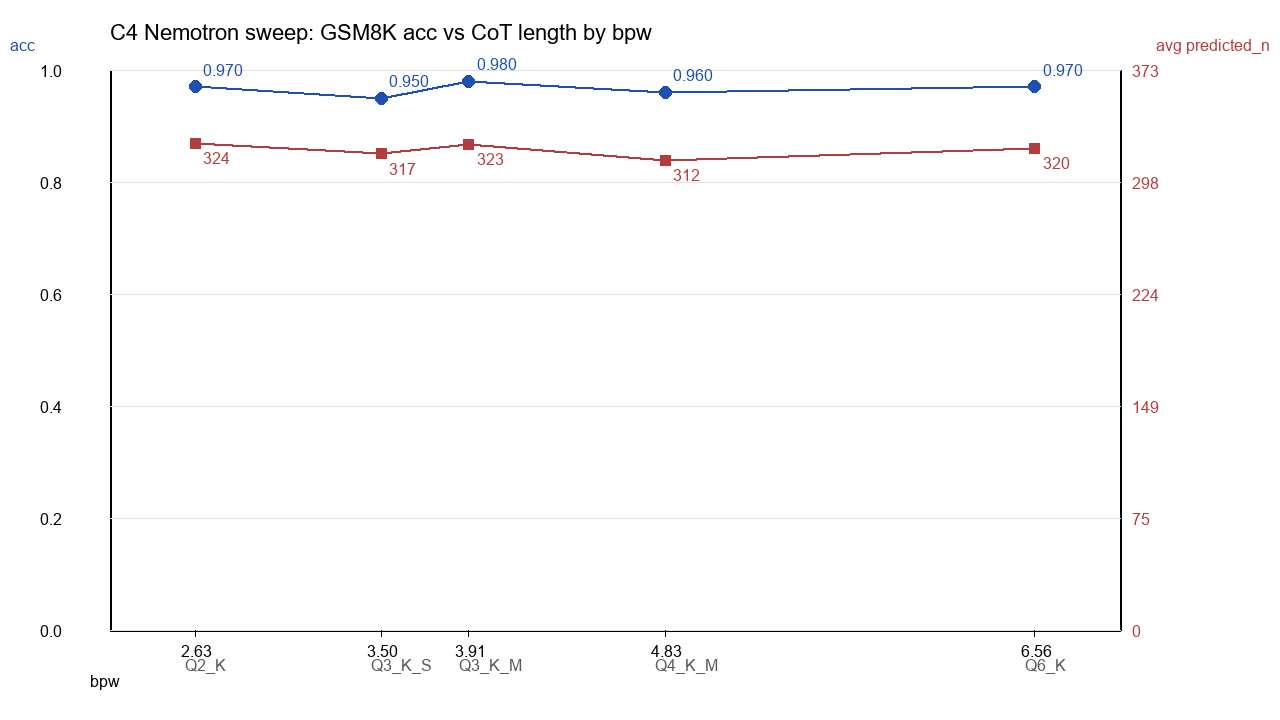
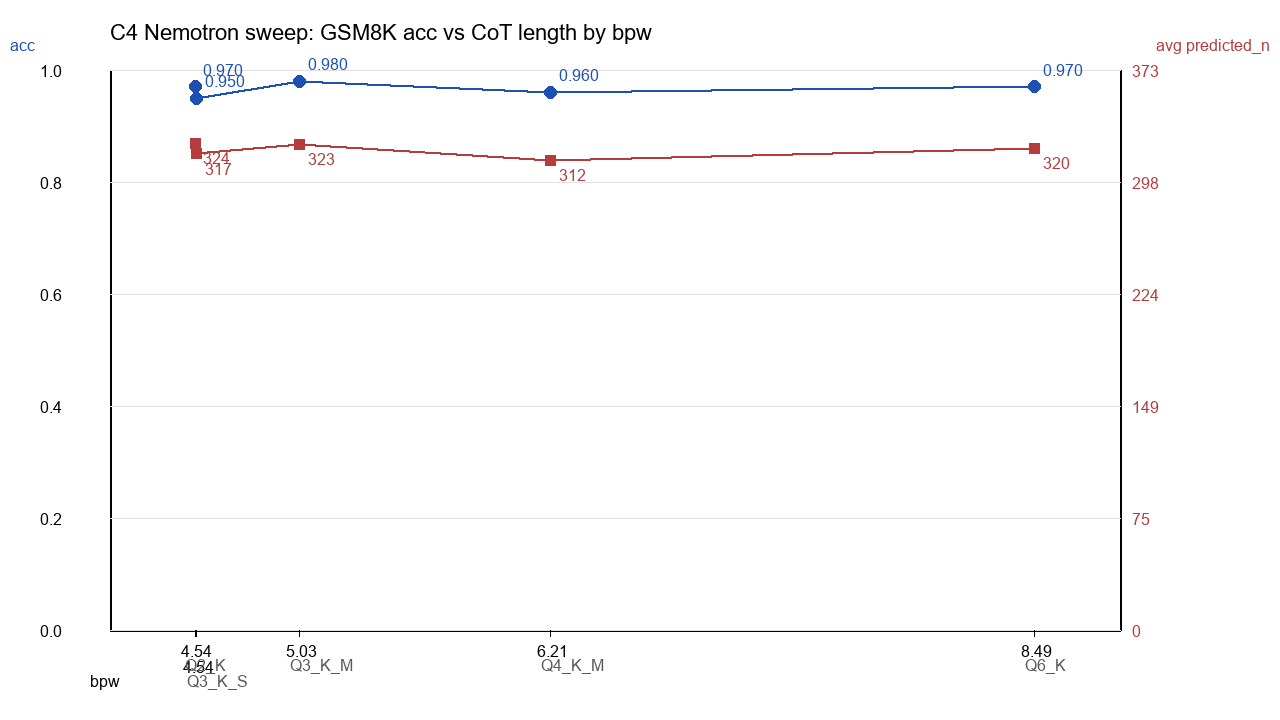
Fix E-N1 ledger: measured bpw, discordant counts; add r_kappa.py
* code/tcq_exp/theory/r_kappa.py: reference implementation of the codebook
  mismatch ratio r(kappa) quoted in Section 5.2 (mid-tread and max-tread
  grids, density-weighted Lloyd-Max fixed point). Its self-test covers the
  seven values the paper uses -- r=48.24/2.337/1.521 at kappa=0.05/0.20/0.30,
  r(0.185)=2.620, max-tread r(0.20)=4.56, kappa(r=5)=0.130, kappa(r=2)=0.226
  -- and `python r_kappa.py` exits 0.

* code/tcq_exp/c4_nemotron_sweep.py: the QUANTS table carried nominal
  llama.cpp tier values (2.63/3.50/3.91/4.83/6.56 bpw) rather than measured
  rates, so every downstream file inherited a bit-width axis roughly half
  the true one. Replaced by a measured table; a consistency check now raises
  at import if size_gib and bpw disagree by more than 0.002 (which the old
  values did by ~2x), so this cannot silently recur. CSV writes are pinned
  to LF.

* results/tcq_exp/results/c4_summary.json, c4_cot_curve.csv, c4_cot_curve.png:
  bpw recomputed from artifact bytes to 4.537/4.544/5.029/6.211/8.489
  (results/nemotron_ext/results/n1_summary.json). size_gib * 2^30 * 8 /
  n_params already implied these to within 0.0013, i.e. the two-decimal
  rounding of size_gib. acc, avg_pn, behaviour and verdict are unchanged
  tier by tier; the verdict's rate span 2.63-6.56 becomes 4.54-8.49, and a
  `revision` block records the previous values. The curve is re-plotted from
  the same summary; the two lowest tiers now sit 0.007 bpw apart, so their
[…]

diff --git a/code/tcq_exp/theory/r_kappa.py b/code/tcq_exp/theory/r_kappa.py
@@ -1,0 +1,157 @@
+#!/usr/bin/env python
+"""Codebook mismatch ratio r(kappa) for a clipped symmetric Laplace source.
+
+Reproduces Section "Codebook mismatch: a heavy-tail distortion ratio" of the
+paper.  Every 128-weight group is modelled as a symmetric Laplace with scale
+b_w clipped to [-a, a]; four-level symmetric quantization of two grid
+conventions is compared against the Lloyd-Max codebook of the same size.
+
+    r(kappa) = D_unif / D_LM,        kappa = b_w / a
+
+Grid conventions
+----------------
+mid_tread  reconstruction points +-a/4, +-3a/4   (Eq. dunif; Voronoi
+           boundaries at 0 and +-a/2)  -- the paper's analytical reference
+max_tread  reconstruction points +-a/3, +-a     (the grid implied by the TCQ
+           scale convention d_b = max|W| / 1.5)
+
+D_LM is obtained by fixed-point (Lloyd-Max) iteration on a uniform grid using
+density-weighted quadrature, starting from the mid-tread points.
+
+Reference values quoted in the paper (mid_tread):
+    r(0.05) = 48.2    r(0.20) = 2.34    r(0.30) = 1.52
+    r in [2, 5]  <=>  kappa in [0.13, 0.23]
+    r(kappa = 0.185) = 2.62   (the E21 unweighted caliber)
+and for grid convention max_tread:
+    r(0.20) = 4.6
+
+Usage
+-----
+    python r_kappa.py            # table + self-test (exit 1 on assertion)
+    python r_kappa.py --csv      # machine-readable output
+
+No dependencies beyond numpy.
+"""
+from __future__ import annotations
+
+import argparse
+import sys
+
+import numpy as np
+
+N_GRID = 200_001          # quadrature points on [-a, a]
+N_LLOYD = 200             # Lloyd-Max iterations (converges in < 40)
+TOL = 1e-12
+
+
+def laplace_pdf(kappa: float, a: float = 1.0, n: int = N_GRID):
+    """Symmetric Laplace on [-a, a], normalised over the clipped support."""
+    b = kappa * a
+    w = np.linspace(-a, a, n)
+    Z = 2.0 * b * (1.0 - np.exp(-a / b))       # integral of exp(-|w|/b)
+    return w, np.exp(-np.abs(w) / b) / Z
+
+
+def distortion(centroids, kappa: float, a: float = 1.0) -> float:
+    """E[(W - Q(W))^2] for nearest-neighbour (Voronoi) assignment."""
+    w, p = laplace_pdf(kappa, a)
+    c = np.asarray(centroids, dtype=float)
+    idx = np.abs(w[:, None] - c[None, :]).argmin(axis=1)
+    return float(np.trapezoid(p * (w - c[idx]) ** 2, w))
+
+
+def lloyd_max(kappa: float, init, a: float = 1.0, iters: int = N_LLOYD):
+    """Lloyd-Max fixed point: centroids = conditional means of their cells."""
+    w, p = laplace_pdf(kappa, a)
+    c = np.asarray(init, dtype=float).copy()
+    for _ in range(iters):
+        idx = np.abs(w[:, None] - c[None, :]).argmin(axis=1)
+        new = np.empty_like(c)
+        for j in range(c.size):
+            m = idx == j
+            # an empty cell keeps its previous centroid (cannot happen here)
+            new[j] = (np.trapezoid(p[m] * w[m], w[m]) / np.trapezoid(p[m], w[m])
+                      if m.any() else c[j])
+        if np.allclose(new, c, atol=TOL):
+            return new
+        c = new
+    raise RuntimeError(f"Lloyd-Max did not converge at kappa={kappa}")
+
+
+def uniform_points(kappa: float, convention: str, a: float = 1.0):
+    if convention == "mid_tread":
+        return np.array([-3 * a / 4, -a / 4, a / 4, 3 * a / 4])
+    if convention == "max_tread":
+        return np.array([-a, -a / 3, a / 3, a])
+    raise ValueError(convention)
+
+
+def ratio(kappa: float, convention: str = "mid_tread", a: float = 1.0) -> float:
+    """r = D_unif / D_LM at tail parameter kappa."""
+    d_unif = distortion(uniform_points(kappa, convention, a), kappa, a)
+    c_lm = lloyd_max(kappa, uniform_points(kappa, "mid_tread", a), a)
+    return d_unif / distortion(c_lm, kappa, a)
+
+
+def kappa_for_ratio(target: float, lo: float = 0.02, hi: float = 0.35,
+                     tol: float = 1e-6) -> float:
+    """Bisection on the (monotone decreasing) r(kappa) curve."""
+    f_lo = ratio(lo) - target
+    if f_lo < 0:
+        raise ValueError(f"no crossing below kappa={hi} for r={target}")
+    for _ in range(100):
+        mid = 0.5 * (lo + hi)
+        if ratio(mid) - target > 0:
+            lo = mid
+        else:
+            hi = mid
+        if hi - lo < tol:
+            break
+    return 0.5 * (lo + hi)
+
+
+def main(argv=None) -> int:
+    ap = argparse.ArgumentParser(description=__doc__.splitlines()[0])
+    ap.add_argument("--csv", action="store_true", help="CSV instead of a table")
+    args = ap.parse_args(argv)
+
+    grid = [0.05, 0.10, 0.13, 0.15, 0.185, 0.20, 0.23, 0.25, 0.30]
+    rows = []
+    for k in grid:
+        rows.append((k, ratio(k, "mid_tread"), ratio(k, "max_tread")))
+
+    if args.csv:
+        print("kappa,r_mid_tread,r_max_tread")
+        for k, r_mid, r_max in rows:
+            print(f"{k:.3f},{r_mid:.4f},{r_max:.4f}")
+    else:
+        print(f"{'kappa':>6}  {'r(mid-tread)':>12}  {'r(max-tread)':>12}")
+        for k, r_mid, r_max in rows:
+            print(f"{k:6.3f}  {r_mid:12.3f}  {r_max:12.3f}")
+        lo = kappa_for_ratio(5.0)
+        hi = kappa_for_ratio(2.0)
+        print(f"\nr in [2, 5]  <=>  kappa in [{lo:.3f}, {hi:.3f}]")
+        print(f"r(kappa=0.185) = {ratio(0.185):.4f}   (E21 unweighted 2.62)")
+        print(f"max-tread r(kappa=0.20) = {ratio(0.20, 'max_tread'):.4f}")
+
+    # ---- unit tests: the values quoted in the paper ----------------------
+    checks = [
+        ("r(0.05) = 48.2", ratio(0.05), 48.2, 0.3),
+        ("r(0.20) = 2.34", ratio(0.20), 2.34, 0.02),
+        ("r(0.30) = 1.52", ratio(0.30), 1.52, 0.02),
+        ("r(0.185) = 2.62", ratio(0.185), 2.62, 0.02),
+        ("max-tread r(0.20) = 4.6", ratio(0.20, "max_tread"), 4.6, 0.1),
+        ("kappa(r=5) = 0.13", kappa_for_ratio(5.0), 0.13, 0.005),
+        ("kappa(r=2) = 0.23", kappa_for_ratio(2.0), 0.23, 0.01),
+    ]
+    failed = 0
+    for label, got, want, tol in checks:
+        ok = abs(got - want) <= tol
+        failed += not ok
+        if not args.csv:
+            print(f"[{'ok' if ok else 'FAIL'}] {label:<26} got {got:.4f}")
+    return 1 if failed else 0
+
+
+if __name__ == "__main__":
+    sys.exit(main())

diff --git a/code/tcq_exp/c4_nemotron_sweep.py b/code/tcq_exp/c4_nemotron_sweep.py
@@ -39,19 +39,32 @@ CURVE_CSV = os.path.join(RES, "c4_cot_curve.csv")
 CALIB_CAND = os.path.join(RES, "c4_calib_candidates.jsonl")
 CALIB_MANUAL = os.path.join(RES, "c4_calib_manual.json")
 
-# 档位按 bpw 升序; size_gib 为任务书给出的目标大小, bpw 为 llama.cpp 标称值
+# 档位按 bpw 升序。size_gib 为制品大小, bpw 为实测码率(制品字节 x 8 / 参数量),
+# 不是档名标称值: 早期版本这里写的是 2.63/3.50/3.91/4.83/6.56 一组标称值,
+# 与 size_gib 相差近一倍, 导致 summary / 曲线 / 台账的位宽轴整体错位。
+N_PARAMS = 31577940288  # Nemotron-Cascade-2-30B-A3B, 同 results/nemotron_ext/results/n1_summary.json
+BPW_MEASURED = {"Q2_K": 4.537, "Q3_K_S": 4.544, "Q3_K_M": 5.029,
+                "Q4_K_M": 6.211, "Q6_K": 8.489}
 QUANTS = [
     {"tag": "Q2_K", "file": "Nemotron-Cascade-2-30B-A3B.i1-Q2_K.gguf",
-     "size_gib": 16.68, "bpw": 2.63, "port": 18301},
+     "size_gib": 16.68, "bpw": BPW_MEASURED["Q2_K"], "port": 18301},
     {"tag": "Q3_K_S", "file": "Nemotron-Cascade-2-30B-A3B.i1-Q3_K_S.gguf",
-     "size_gib": 16.70, "bpw": 3.50, "port": 18302},
+     "size_gib": 16.70, "bpw": BPW_MEASURED["Q3_K_S"], "port": 18302},
     {"tag": "Q3_K_M", "file": "Nemotron-Cascade-2-30B-A3B.i1-Q3_K_M.gguf",
-     "size_gib": 18.49, "bpw": 3.91, "port": 18303},
+     "size_gib": 18.49, "bpw": BPW_MEASURED["Q3_K_M"], "port": 18303},
     {"tag": "Q4_K_M", "file": "Nemotron-Cascade-2-30B-A3B.i1-Q4_K_M.gguf",
-     "size_gib": 22.83, "bpw": 4.83, "port": 18304},
+     "size_gib": 22.83, "bpw": BPW_MEASURED["Q4_K_M"], "port": 18304},
     {"tag": "Q6_K", "file": "Nemotron-Cascade-2-30B-A3B.i1-Q6_K.gguf",
-     "size_gib": 31.21, "bpw": 6.56, "port": 18305},
+     "size_gib": 31.21, "bpw": BPW_MEASURED["Q6_K"], "port": 18305},
 ]
+# 自检: 实测码率必须与制品大小自洽 (size_gib 只保留两位小数, 容差 0.002),
+# 任何一侧被改错都在开跑前报错, 不会再把错位的位宽轴写进结果文件。
+for _q in QUANTS:
+    _derived = _q["size_gib"] * 2 ** 30 * 8 / N_PARAMS
+    if abs(_derived - _q["bpw"]) >= 0.002:
+        raise ValueError("%s: size_gib=%.2f 推出 %.3f bpw, 与实测 %.3f 不符"
+                         % (_q["tag"], _q["size_gib"], _derived, _q["bpw"]))
+del _q, _derived
 HIGH_ANCHORS = {"Q4_K_M", "Q6_K"}
 N_PREDICT = 1024
 STOPS = ["\n\nQuestion:", "\n\nQ:"]
@@ -486,9 +499,15 @@ def draw_chart(points):
         return B - (B - T) * a
     def py_pn(p):
         return B - (B - T) * (p / pmax)
-    for b in bps:
+    # 实测码率下 Q2_K 与 Q3_K_S 只差 0.007 bpw (4.537 / 4.544), 刻度与档名会叠在一起,
+    # 相邻刻度改为上下错行; 点本身仍按真实 bpw 落位, 不人为拉开。
+    sb = sorted(bps)
+    stag = {}
+    for i, b in enumerate(sb):
+        stag[b] = 0 if (i == 0 or px(b) - px(sb[i - 1]) > 34) else 16
+    for b in sb:
         d.line([(px(b), B), (px(b), B + 6)], fill="black", width=1)
-        d.text((px(b) - 14, B + 12), f"{b:.2f}", fill="black", font=f_l)
+        d.text((px(b) - 14, B + 12 + stag[b]), f"{b:.2f}", fill="black", font=f_l)
     d.text((L - 20, B + 42), "bpw", fill="black", font=f_l)
     d.text((10, T - 34), "acc", fill=(30, 80, 180), font=f_l)
     rt = "avg predicted_n"
@@ -504,9 +523,10 @@ def draw_chart(points):
         x, y = px(p["bpw"]), py_pn(p["avg_pn"])
         d.rectangle([x - 5, y - 5, x + 5, y + 5], fill=(180, 60, 60))
         d.text((x + 8, y + 6), f"{p['avg_pn']:.0f}", fill=(180, 60, 60), font=f_l)
-        d.text((x - 10, B + 26), p["tag"], fill=(90, 90, 90), font=f_l)
+        d.text((x - 10, B + 26 + stag.get(p["bpw"], 0)), p["tag"],
+               fill=(90, 90, 90), font=f_l)
     img.save(CURVE_PNG)
-    with open(CURVE_CSV, "w", encoding="utf-8") as f:
+    with open(CURVE_CSV, "w", encoding="utf-8", newline="\n") as f:
         f.write("tag,bpw,acc,avg_predicted_n,median_predicted_n\n")
         for p in seq:
             f.write(f"{p['tag']},{p['bpw']},{p['acc']:.4f},{p['avg_pn']:.2f},"
@@ -642,7 +662,7 @@ def cmd_summarize(args):
             draw_chart(points)
             out["curve"] = {"png": CURVE_PNG, "csv": CURVE_CSV}
         except Exception as e:  # noqa: BLE001  matplotlib/PIL 缺失时退化为 CSV
-            with open(CURVE_CSV, "w", encoding="utf-8") as f:
+            with open(CURVE_CSV, "w", encoding="utf-8", newline="\n") as f:
                 f.write("tag,bpw,acc,avg_predicted_n,median_predicted_n\n")
                 for p in sorted(points, key=lambda x: x["bpw"]):
                     f.write(f"{p['tag']},{p['bpw']},{p['acc']:.4f},{p['avg_pn']:.2f},"

diff --git a/DATA_TABLE.md b/DATA_TABLE.md
@@ -98,7 +98,7 @@
 | E-R1 | 增补 | reverse 名单对照：usage 升序前 10 层 IQ4_XS + 专家 IQ2_XXS + 其余 Q5_K，与 G1 / G2 / G_rand 单变量对照（GSM8K200 + HE164，协议同 C1.2） | 已完成 | 11.652 GiB（与 G_rand 同模板同体积，24.1 min）；GSM8K 0.960、HE 0.909（26.0 min）；vs G2 +2.0 / +0.6 pt（p=0.219 / 1.000）、vs G_rand +0.5 / +3.0 pt（p=1.000 / 0.359）、vs G1 +1.5 / −2.4 pt（p=0.508 / 0.388），CI 全部含 0；判定"双任务均无差异"，名单维度（层粒度）关闭 | reverse/reverse_types.py, reverse/run_tasks.py, reverse/pair_eval.py | results/reverse/results/c2_reverse_summary.json, results/reverse/results/c2_reverse_pairwise.json, results/reverse/results/c1_reverse_meta.json |
 | E-R2 | 增补 | Qwen3.6-35B-A3B 路由一致性诊断：BF16 F16 / TCQ-nl_global / iq2xxs 三配置，eval64 全 192 条 11,202 token，逐 token × 40 层 × 256 专家概率；llama.cpp 新增 `LLAMA_MOE_DUMP` 导出（`ffn_moe_probs` 标记 output 防缓冲区复用） | 已完成 | 主臂 TCQ vs BF16：top-8 精确匹配 0.1868 [0.1801, 0.1940]、Jaccard 0.7130、JS 0.0108 bit [0.0100, 0.0117]；翻转（≥20/40 层）9653/9666 token；iq2xxs：0.2848 / 0.7774 / 0.0057；聚合 usage hard TV 0.0629、top-64 重叠 0.9117（最低 0.8438）；严重度高低 ΔNLL 差 +0.169 [0.107, 0.231]；判定 P3（路由不可忽略），附"分布移动小、聚合 usage 稳定"两条缓和事实 | route_consistency/r2_run.py, route_consistency/r2_analyze.py | results/route_consistency/results/r2_summary.json, results/route_consistency/results/r2_by_layer.csv |
 | E-R2b | 增补 | Nemotron-Cascade-2-30B-A3B 路由臂：Q3_K_M vs Q6_K（8 条/域 × 3 域 = 24 条，1621 token，23 层） | 已完成 | 精确匹配 0.2621 [0.2428, 0.2834]、Jaccard 0.7839、JS 0.0865 bit [0.0724, 0.1012]、ΔNLL −0.0368；翻转多数 1398/1621、稳定组 0；参照为 Q6_K（非 BF16），一致率按下界解读；判定 P3_routing_not_negligible | nemotron_ext/route/nr_run.py, nemotron_ext/route/nr_analyze.py | results/nemotron_ext/route/results/nr_summary.json |
-| E-N1 | 增补 | Nemotron 四档 CoT/acc–位宽曲线：Q2_K 2.63 / Q3_K_S 3.50 / Q3_K_M 3.91 / Q4_K_M 4.83 bpw + Q6_K 6.56 锚，GSM8K 前 100；Qwen 六档（E17 前 100）并置（复用 C4/E17 数据，未重跑推理） | 已完成 | acc 0.970 / 0.950 / 0.980 / 0.960 / 0.970；相邻档最大 Δacc −2 pp、CoT 比 0.966–1.025，无相邻档满足断崖判据；McNemar Q2_K vs Q3_K_S b=4 / c=2 / p=0.625；四档极差 3.0 pp；判定 B_gradual（四档渐变），M6 降级为"该族低比特敏感度高于 GDN" | nemotron_ext/n1_analyze.py | results/nemotron_ext/results/n1_summary.json, results/nemotron_ext/results/n1_curves.csv, results/nemotron_ext/results/n1_curves.svg |
+| E-N1 | 增补 | Nemotron 四档 CoT/acc–位宽曲线：Q2_K 4.537 / Q3_K_S 4.544 / Q3_K_M 5.029 / Q4_K_M 6.211 bpw + Q6_K 8.489 锚，GSM8K 前 100；Qwen 六档（E17 前 100）并置（复用 C4/E17 数据，未重跑推理） | 已完成 | acc 0.970 / 0.950 / 0.980 / 0.960 / 0.970；相邻档最大 Δacc −2 pp、CoT 比 0.966–1.025，无相邻档满足断崖判据；McNemar Q2_K vs Q3_K_S b=3 / c=1 / p=0.625；四档极差 3.0 pp；判定 B_gradual（四档渐变），M6 降级为"该族低比特敏感度高于 GDN" | nemotron_ext/n1_analyze.py | results/nemotron_ext/results/n1_summary.json, results/nemotron_ext/results/n1_curves.csv, results/nemotron_ext/results/n1_curves.svg |
 | E-GPTQ | 增补 | 补偿式量化基线：GPTQ 3-bit / group 128 / damp 0.01，128 条 C4 校准，GSM8K200 + HE164（协议同 E17） | 未执行（工具链阻塞） | 无质量数据；PREREG 与脚本已就绪（`quantize_gptq.py` / `eval_gptq.py`）；阻塞证据：gptqmodel 7.11 依赖 pypcre（PCRE2 源码 clone 失败）且要求 torch≥2.13（本机 2.4.1+cu124），`--no-deps` 后缺 `pcre`，auto-gptq 架构表不含 Qwen3_5Moe，llm-compressor 镜像缺失；换 Linux 环境可直接执行 | gptq_baseline/quantize_gptq.py, gptq_baseline/eval_gptq.py | — |
 | E-G4 质量对比 | 未执行 | Clover dLLM A/B 的 GSM8K200 / MATH-500 100 / HumanEval 164 | 未执行（链路阻塞） | 无数据 | tcq_exp/e_g4_eval.py | — |
 | D2 / D2b / D3 / D4 / D5 | 未执行 | 见第六节 | 搁置 | 本轮不执行 | — | — |

diff --git a/EXPERIMENT_INVENTORY.md b/EXPERIMENT_INVENTORY.md
@@ -1,6 +1,6 @@
 # 实验总台账
 
-生成时间：2026-11-11 19:00；最后更新：2026-11-18（Asia/Shanghai）
+生成时间：2026-11-11 19:00；最后更新：2026-11-19（Asia/Shanghai）
 范围：阶段 0/1/2 历史实验（E1–E21、B、D、A、C 路线）+ 当前主线（E-F、E-G、E-H）+ E-A1 轨迹级（A1a/A1a-ctrl/A1b/A1c/A1d/A1f/A1g/A1h/A1i）+ 2026-11-18 增补（E-R1/E-R2/E-R2b/E-N1/E-GPTQ）
 状态定义：已完成（含"否证"结果）/ 部分完成（计划内的子项缺失）/ 未执行（阻塞或计划未启动）
 说明：只记录实验内容、状态、结果，不做分析；数字取自 results/ 下对应结果文件。E-G5/G6/G7 的配对检验为 McNemar 精确 + 1000 次序列 bootstrap（seed 20261104，名义 p，未做多重校正），明细见 results/e_g567_pairwise.json。
@@ -157,7 +157,7 @@
 | E-R1 | reverse 名单对照：usage 升序前 10 层 IQ4_XS + 专家 IQ2_XXS + 其余 Q5_K，与 G1 / G2 / G_rand 单变量对照（GSM8K200 + HE164，协议同 C1.2） | 已完成 | 11.652 GiB（与 G_rand 同模板同体积，24.1 min）；GSM8K 0.960、HE 0.909（26.0 min）；vs G2 +2.0 / +0.6 pt（p=0.219 / 1.000）、vs G_rand +0.5 / +3.0 pt（p=1.000 / 0.359）、vs G1 +1.5 / −2.4 pt（p=0.508 / 0.388），CI 全部含 0；判定"双任务均无差异"，名单维度（层粒度）关闭 |
 | E-R2 | Qwen3.6-35B-A3B 路由一致性诊断：BF16 F16 / TCQ-nl_global / iq2xxs 三配置，eval64 全 192 条 11,202 token，逐 token × 40 层 × 256 专家概率；llama.cpp 新增 `LLAMA_MOE_DUMP` 导出（`ffn_moe_probs` 标记 output 防缓冲区复用） | 已完成 | 主臂 TCQ vs BF16：top-8 精确匹配 0.1868 [0.1801, 0.1940]、Jaccard 0.7130、JS 0.0108 bit [0.0100, 0.0117]；翻转（≥20/40 层）9653/9666 token；iq2xxs：0.2848 / 0.7774 / 0.0057；聚合 usage hard TV 0.0629、top-64 重叠 0.9117（最低 0.8438）；严重度高低 ΔNLL 差 +0.169 [0.107, 0.231]；判定 P3（路由不可忽略），附"分布移动小、聚合 usage 稳定"两条缓和事实 |
 | E-R2b | Nemotron-Cascade-2-30B-A3B 路由臂：Q3_K_M vs Q6_K（8 条/域 × 3 域 = 24 条，1621 token，23 层） | 已完成 | 精确匹配 0.2621 [0.2428, 0.2834]、Jaccard 0.7839、JS 0.0865 bit [0.0724, 0.1012]、ΔNLL −0.0368；翻转多数 1398/1621、稳定组 0；参照为 Q6_K（非 BF16），一致率按下界解读；判定 P3_routing_not_negligible |
-| E-N1 | Nemotron 四档 CoT/acc–位宽曲线：Q2_K 2.63 / Q3_K_S 3.50 / Q3_K_M 3.91 / Q4_K_M 4.83 bpw + Q6_K 6.56 锚，GSM8K 前 100；Qwen 六档（E17 前 100）并置（复用 C4/E17 数据，未重跑推理） | 已完成 | acc 0.970 / 0.950 / 0.980 / 0.960 / 0.970；相邻档最大 Δacc −2 pp、CoT 比 0.966–1.025，无相邻档满足断崖判据；McNemar Q2_K vs Q3_K_S b=4 / c=2 / p=0.625；四档极差 3.0 pp；判定 B_gradual（四档渐变），M6 降级为"该族低比特敏感度高于 GDN" |
+| E-N1 | Nemotron 四档 CoT/acc–位宽曲线：Q2_K 4.537 / Q3_K_S 4.544 / Q3_K_M 5.029 / Q4_K_M 6.211 bpw + Q6_K 8.489 锚，GSM8K 前 100；Qwen 六档（E17 前 100）并置（复用 C4/E17 数据，未重跑推理） | 已完成 | acc 0.970 / 0.950 / 0.980 / 0.960 / 0.970；相邻档最大 Δacc −2 pp、CoT 比 0.966–1.025，无相邻档满足断崖判据；McNemar Q2_K vs Q3_K_S b=3 / c=1 / p=0.625；四档极差 3.0 pp；判定 B_gradual（四档渐变），M6 降级为"该族低比特敏感度高于 GDN" |
 | E-GPTQ | 补偿式量化基线：GPTQ 3-bit / group 128 / damp 0.01，128 条 C4 校准，GSM8K200 + HE164（协议同 E17） | 未执行（工具链阻塞） | 无质量数据；PREREG 与脚本已就绪（`quantize_gptq.py` / `eval_gptq.py`）；阻塞证据：gptqmodel 7.11 依赖 pypcre（PCRE2 源码 clone 失败）且要求 torch≥2.13（本机 2.4.1+cu124），`--no-deps` 后缺 `pcre`，auto-gptq 架构表不含 Qwen3_5Moe，llm-compressor 镜像缺失；换 Linux 环境可直接执行 |
 
 ---

diff --git a/docs/nemotron_ext/PROGRESS.md b/docs/nemotron_ext/PROGRESS.md
@@ -8,16 +8,20 @@ M6 以"敏感度远高于 GDN"的措辞关闭。
 
 | tag | bpw | acc [Wilson 95%] | mean CoT | median | truncated | loop |
 | --- | --- | --- | --- | --- | --- | --- |
-| Q2_K | 2.63 | 0.970 [0.914, 0.990] | 324.1 | 235 | 4% | 3% |
-| Q3_K_S | 3.50 | 0.950 [0.888, 0.978] | 317.3 | 248.5 | 6% | 6% |
-| Q3_K_M | 3.91 | 0.980 [0.930, 0.995] | 323.3 | 259 | 1% | 6% |
-| Q4_K_M | 4.83 | 0.960 [0.902, 0.984] | 312.5 | 283 | 2% | 2% |
-| Q6_K | 6.56 | 0.970 [0.914, 0.990] | 320.4 | 270 | 3% | 4% |
+| Q2_K | 4.537 | 0.970 [0.914, 0.990] | 324.1 | 235 | 4% | 3% |
+| Q3_K_S | 4.544 | 0.950 [0.888, 0.978] | 317.3 | 248.5 | 6% | 6% |
+| Q3_K_M | 5.029 | 0.980 [0.930, 0.995] | 323.3 | 259 | 1% | 6% |
+| Q4_K_M | 6.211 | 0.960 [0.902, 0.984] | 312.5 | 283 | 2% | 2% |
+| Q6_K | 8.489 | 0.970 [0.914, 0.990] | 320.4 | 270 | 3% | 4% |
+
+bpw 为实测制品码率（制品字节 × 8 / 参数量 31,577,940,288，取自
+`results/nemotron_ext/results/n1_summary.json` 的 `bpw_source`），非 llama.cpp
+标称档名；按实测码率排序仍是同一档序。
 
 - 相邻档差分：Q2→Q3_S acc −2 pp、CoT ×0.978；Q3_S→Q3_M +3 pp、×1.020；
   Q3_M→Q4_M −2 pp、×0.966；Q4_M→Q6 +1 pp、×1.025。
   **没有任何相邻档满足断崖判据**（Δacc ≤ −15 pp 或 CoT ×0.70）。
-- 配对 McNemar（Q2_K vs Q3_K_S）：b=4, c=2, p=0.625 → 不显著。
+- 配对 McNemar（Q2_K vs Q3_K_S）：b=3, c=1, p=0.625 → 不显著。
 - 四档 acc 极差 3.0 pp，CoT 相对极差 3.6%，全部落在 100 题的噪声带内。
 
 ## 与 Qwen3.6 的并置
